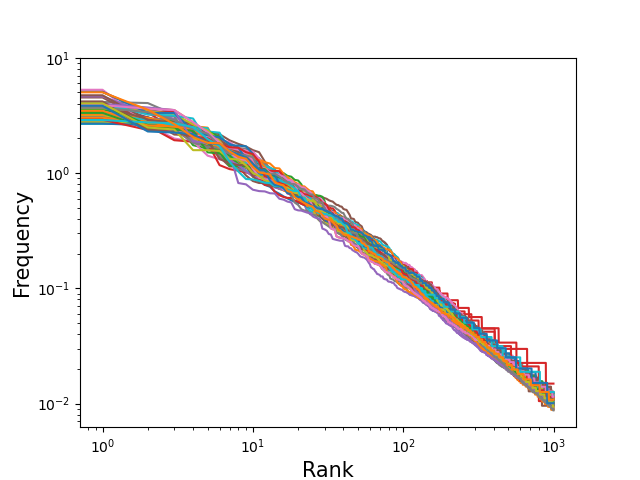
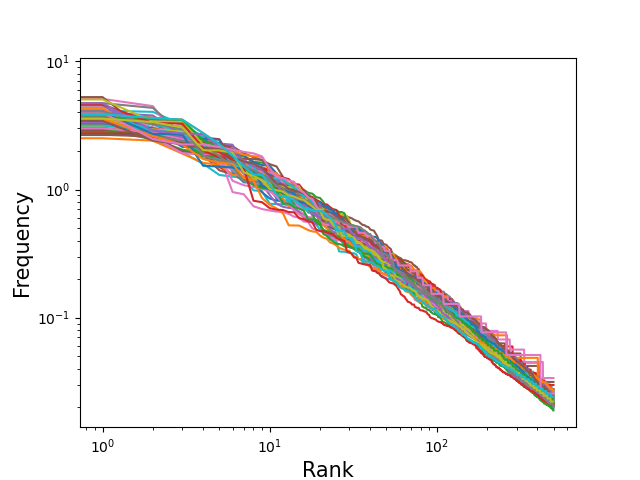
Fixed typos

diff --git a/stats.py b/stats.py
@@ -16,7 +16,7 @@ import os.path
 #######################################################################################################
 
 
-stop_words=set(stopwords.words("english"))
+#stop_words=set(stopwords.words("english"))
 
 def get_filename_from_title(title):
     File_100_Books = open("books_dictionary.txt", "r")
@@ -28,23 +28,19 @@ def get_filename_from_title(title):
         if Dictionary_100_Books[i]['Title'] == title:
             return Dictionary_100_Books[i]['Filename']
 
-
-#print(get_filename_from_title("War and Peace"))
-Title_entered = input("Enter title: " )
-filename = get_filename_from_title(Title_entered)
-#print(filename)
-
+#BEGIN
 #file = open("test.txt", "r")
-if filename is not None:
-    file = open(filename, "r")
-else:
-    print("Title was not found.")
-    exit()
+# if filename is not None:
+#     file = open(filename, "r")
+# else:
+#     print("Title was not found.")
+#     exit()
     
-data = file.read()
-data_wout_symbols = re.sub(r'[^\w]', ' ', data) #remove symbols
-words = data_wout_symbols.split() #split text at space
-sentences = tokenize.sent_tokenize(data)
+# data = file.read()
+# data_wout_symbols = re.sub(r'[^\w]', ' ', data) #remove symbols
+# words = data_wout_symbols.split() #split text at space
+#sentences = tokenize.sent_tokenize(data)
+#END
         
 def get_list_words_from_title():
     #print(get_filename_from_title("War and Peace"))
@@ -85,16 +81,16 @@ def get_list_words_from_filename(filename):
 
 #print(words) #Print all words
 #print('Number of words:', len(words)) #How many words are there in total in the txt file
-Count_of_letter = collections.Counter(data_wout_symbols) #count how often each letter occurs
-Count_of_words = collections.Counter(words) #count how often each word occurs
-avg_sen_length = len(sentences)/len(words)
+#!Count_of_letter = collections.Counter(data_wout_symbols) #count how often each letter occurs
+#!Count_of_words = collections.Counter(words) #count how often each word occurs
+#!avg_sen_length = len(sentences)/len(words)
 
 #print(frequency_letter) #print all letters and how oftern they occur
 #print(Count_of_words.most_common(5)) #print x most common words
 #print(Count_of_words.most_common()[-1]) #print word at the end of the list
 #print(Count_of_words['war'],Count_of_words['peace']) #print frequency of given word
 
-def Rank_Frequency_Plot(N):
+def Rank_Frequency_Plot(Count_of_words,N):
     """
     Plot of rank v frequency of N most common words in text
     """
@@ -102,7 +98,6 @@ def Rank_Frequency_Plot(N):
     Frequency_common_words = [(i, Count_of_words[i] / len(words) * 100.0) for i,count in Count_of_words.most_common(N)] #Compute with what percentage the words occur
     Frequency_common_words_decreasing = collections.OrderedDict(Frequency_common_words) #Make ordered dictionary of most common words and with which percentage they occur
     #print(frequency_percentage[:5]) #print the five most common words with percentage 
-
     #fig, axes = plt.subplots()
     axes.set_xscale('log')
     axes.set_yscale('log')
@@ -145,7 +140,7 @@ for i in range(100):
         #most_common_letters.append(Count_of_letter.most_common(2))
         most_common_words.append(list(collections.OrderedDict(Count_of_words.most_common(2)).keys()))
         most_diverse.append(len(Count_of_words)/len(words))
-        #Rank_Frequency_Plot(1000)
+        Rank_Frequency_Plot(Count_of_words,500)
     else:
         list_number_of_words.append("File not found")
         most_common_words.append("File not found")
@@ -158,4 +153,4 @@ Books_dataframe['Ratio of Unique and Total Words'] = most_diverse
 Books_dataframe.to_csv(r'Books_w_stats.csv', index = False)
 max_index = pd.to_numeric(Books_dataframe['Ratio of Unique and Total Words']).idxmax()
 print(Books_dataframe.iloc[max_index,1])
-#plt.savefig('diagram.png')
+plt.savefig('diagram.png')

diff --git a/gutenberg.py b/gutenberg.py
@@ -179,10 +179,7 @@ def save_top100_to_txt():
         htmltree = html.fromstring(bookinfo)
         
         save_book_txt(htmltree)
-<<<<<<< HEAD
+
         
 #df = list_book_info()       
 #df.to_csv(r'Books_Dataframe.csv')
-=======
-    
->>>>>>> 6c94221ec03b873678b5466da28613c30a9be93b
